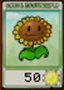
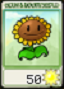
add plant panel for choosing plants

diff --git a/source/component/menubar.py b/source/component/menubar.py
@@ -4,6 +4,12 @@ import pygame as pg
 from .. import tool
 from .. import constants as c
 
+PANEL_Y_START = 87
+PANEL_X_START = 22
+PANEL_Y_INTERNAL = 74
+PANEL_X_INTERNAL = 53
+CARD_LIST_NUM = 8
+
 card_name_list = [c.CARD_SUNFLOWER, c.CARD_PEASHOOTER, c.CARD_SNOWPEASHOOTER, c.CARD_WALLNUT,
                   c.CARD_CHERRYBOMB, c.CARD_THREEPEASHOOTER, c.CARD_REPEATERPEA, c.CARD_CHOMPER,
                   c.CARD_PUFFMUSHROOM, c.CARD_POTATOMINE, c.CARD_SQUASH]
@@ -12,11 +18,26 @@ plant_name_list = [c.SUNFLOWER, c.PEASHOOTER, c.SNOWPEASHOOTER, c.WALLNUT,
                    c.PUFFMUSHROOM, c.POTATOMINE, c.SQUASH]
 plant_sun_list = [50, 100, 175, 50, 150, 325, 200, 150, 0, 25, 50]
 plant_frozen_time_list = [0, 5000, 5000, 10000, 5000, 5000, 5000, 5000, 8000, 8000, 8000]
-card_list = [0, 1, 3, 4, 7, 8, 9, 10]
+all_card_list = [0, 1, 2, 3, 4, 5, 6, 7, 8, 9, 10]
+
+def getSunValueImage(sun_value):
+    font = pg.font.SysFont(None, 22)
+    width = 32
+    msg_image = font.render(str(sun_value), True, c.NAVYBLUE, c.LIGHTYELLOW)
+    msg_rect = msg_image.get_rect()
+    msg_w = msg_rect.width
+
+    image = pg.Surface([width, 17])
+    x = width - msg_w
+
+    image.fill(c.LIGHTYELLOW)
+    image.blit(msg_image, (x, 0), (0, 0, msg_rect.w, msg_rect.h))
+    image.set_colorkey(c.BLACK)
+    return image
 
 class Card():
-    def __init__(self, x, y, name_index):
-        self.loadFrame(card_name_list[name_index])
+    def __init__(self, x, y, name_index, scale=0.78):
+        self.loadFrame(card_name_list[name_index], scale)
         self.rect = self.image.get_rect()
         self.rect.x = x
         self.rect.y = y
@@ -25,13 +46,14 @@ class Card():
         self.sun_cost = plant_sun_list[name_index]
         self.frozen_time = plant_frozen_time_list[name_index]
         self.frozen_timer = -self.frozen_time
+        self.select = True
 
-    def loadFrame(self, name):
+    def loadFrame(self, name, scale):
         frame = tool.GFX[name]
         rect = frame.get_rect()
         width, height = rect.w, rect.h
 
-        self.image = tool.get_image(frame, 0, 0, width, height, c.BLACK, 0.78)
+        self.image = tool.get_image(frame, 0, 0, width, height, c.BLACK, scale)
     
     def checkMouseClick(self, mouse_pos):
         x, y = mouse_pos
@@ -44,6 +66,16 @@ class Card():
         if self.sun_cost <= sun_value and (current_time - self.frozen_timer) > self.frozen_time:
             return True
         return False
+
+    def canSelect(self):
+        return self.select
+
+    def setSelect(self, can_select):
+        self.select = can_select
+        if can_select:
+            self.image.set_alpha(255)
+        else:
+            self.image.set_alpha(128)
 
     def setFrozenTime(self, current_time):
         self.frozen_timer = current_time
@@ -68,7 +100,6 @@ class MenuBar():
         self.sun_value = sun_value
         self.card_offset_x = 32
         self.setupCards(card_list)
-        self.font = pg.font.SysFont(None, 20)
 
     def loadFrame(self, name):
         frame = tool.GFX[name]
@@ -135,21 +166,9 @@ class MenuBar():
                 break
 
     def drawSunValue(self):
-        width = 32
-        msg_image = self.font.render(str(self.sun_value), True, c.NAVYBLUE, c.LIGHTYELLOW)
-        msg_rect = msg_image.get_rect()
-        msg_w = msg_rect.width
-        
-        image = pg.Surface([width, 17])
-        x = width - msg_w
-        
-        image.fill(c.LIGHTYELLOW)
-        image.blit(msg_image, (x, 0), (0, 0, msg_rect.w, msg_rect.h))
-        image.set_colorkey(c.BLACK)
-
-        self.value_image = image
+        self.value_image = getSunValueImage(self.sun_value)
         self.value_rect = self.value_image.get_rect()
-        self.value_rect.x = 18
+        self.value_rect.x = 21
         self.value_rect.y = self.rect.bottom - 21
         
         self.image.blit(self.value_image, self.value_rect)
@@ -159,3 +178,110 @@ class MenuBar():
         surface.blit(self.image, self.rect)
         for card in self.card_list:
             card.draw(surface)
+
+class Panel():
+    def __init__(self, card_list, sun_value):
+        self.loadImages(sun_value)
+        self.selected_cards = []
+        self.selected_num = 0
+        self.setupCards(card_list)
+
+    def loadFrame(self, name):
+        frame = tool.GFX[name]
+        rect = frame.get_rect()
+        frame_rect = (rect.x, rect.y, rect.w, rect.h)
+
+        return tool.get_image(tool.GFX[name], *frame_rect, c.WHITE, 1)
+
+    def loadImages(self, sun_value):
+        self.menu_image = self.loadFrame(c.MENUBAR_BACKGROUND)
+        self.menu_rect = self.menu_image.get_rect()
+        self.menu_rect.x = 0
+        self.menu_rect.y = 0
+
+        self.panel_image = self.loadFrame(c.PANEL_BACKGROUND)
+        self.panel_rect = self.panel_image.get_rect()
+        self.panel_rect.x = 0
+        self.panel_rect.y = PANEL_Y_START
+
+        
+        self.value_image = getSunValueImage(sun_value)
+        self.value_rect = self.value_image.get_rect()
+        self.value_rect.x = 21
+        self.value_rect.y = self.menu_rect.bottom - 21
+
+        self.button_image =  self.loadFrame(c.START_BUTTON)
+        self.button_rect = self.button_image.get_rect()
+        self.button_rect.x = 155
+        self.button_rect.y = 547
+
+    def setupCards(self, card_list):
+        self.card_list = []
+        x = PANEL_X_START - PANEL_X_INTERNAL
+        y = PANEL_Y_START + 43 - PANEL_Y_INTERNAL
+        for i, index in enumerate(card_list):
+            if i % 8 == 0:
+                x = PANEL_X_START - PANEL_X_INTERNAL
+                y += PANEL_Y_INTERNAL
+            x += PANEL_X_INTERNAL
+            self.card_list.append(Card(x, y, index, 0.75))
+
+    def checkCardClick(self, mouse_pos):
+        delete_card = None
+        for card in self.selected_cards:
+            if delete_card: # when delete a card, move right cards to left
+                card.rect.x -= 55
+            elif card.checkMouseClick(mouse_pos):
+                self.deleteCard(card.name_index)
+                delete_card = card
+
+        if delete_card:
+            self.selected_cards.remove(delete_card)
+            self.selected_num -= 1
+
+        if self.selected_num == CARD_LIST_NUM:
+            return
+
+        for card in self.card_list:
+            if card.checkMouseClick(mouse_pos):
+                if card.canSelect():
+                    self.addCard(card)
+                break
+
+    def addCard(self, card):
+        card.setSelect(False)
+        y = 8
+        x = 78 + self.selected_num * 55
+        self.selected_cards.append(Card(x, y, card.name_index))
+        self.selected_num += 1
+
+    def deleteCard(self, index):
+        self.card_list[index].setSelect(True)
+
+    def checkStartButtonClick(self, mouse_pos):
+        if self.selected_num < CARD_LIST_NUM:
+            return False
+
+        x, y = mouse_pos
+        if (x >= self.button_rect.x and x <= self.button_rect.right and
+            y >= self.button_rect.y and y <= self.button_rect.bottom):
+           return True
+        return False
+
+    def getSelectedCards(self):
+        card_index_list = []
+        for card in self.selected_cards:
+            card_index_list.append(card.name_index)
+        return card_index_list
+
+    def draw(self, surface):
+        self.menu_image.blit(self.value_image, self.value_rect)
+        surface.blit(self.menu_image, self.menu_rect)
+        surface.blit(self.panel_image, self.panel_rect)
+        for card in self.card_list:
+            card.draw(surface)
+        for card in self.selected_cards:
+            card.draw(surface)
+
+        if self.selected_num == CARD_LIST_NUM:
+            surface.blit(self.button_image, self.button_rect)

diff --git a/source/state/level.py b/source/state/level.py
@@ -19,21 +19,10 @@ class Level(tool.State):
         self.map = map.Map(c.GRID_X_LEN, self.map_y_len)
         
         self.loadMap()
-        
-        self.menubar = menubar.MenuBar(menubar.card_list, self.map_data[c.INIT_SUN_NAME])
-        self.drag_plant = False
-        self.hint_image = None
-        self.hint_plant = False
-        
-        self.produce_sun = True
-        self.sun_timer = current_time
-        
-        self.removeMouseImage()
+        self.state = c.CHOOSE
+        self.initChoose()
         self.setupBackground()
-        self.setupGroups()
-        self.setupZombies()
-        self.setupCars()
-    
+
     def loadMap(self):
         map_file = 'level_' + str(self.game_info[c.LEVEL_NUM]) + '.json'
         file_path = os.path.join('source', 'data', 'map', map_file)
@@ -80,7 +69,37 @@ class Level(tool.State):
 
     def update(self, surface, current_time, mouse_pos, mouse_click):
         self.current_time = self.game_info[c.CURRENT_TIME] = current_time
-        
+        if self.state == c.CHOOSE:
+            self.choose(mouse_pos, mouse_click)
+        elif self.state == c.PLAY:
+            self.play(mouse_pos, mouse_click)
+
+        self.draw(surface)
+
+    def initChoose(self):
+        self.panel = menubar.Panel(menubar.all_card_list, self.map_data[c.INIT_SUN_NAME])
+
+    def choose(self, mouse_pos, mouse_click):
+        if mouse_pos and mouse_click[0]:
+            self.panel.checkCardClick(mouse_pos)
+            if self.panel.checkStartButtonClick(mouse_pos):
+                self.state = c.PLAY
+                self.initPlay(self.panel.getSelectedCards())
+
+    def initPlay(self, card_list):
+        self.menubar = menubar.MenuBar(card_list, self.map_data[c.INIT_SUN_NAME])
+        self.drag_plant = False
+        self.hint_image = None
+        self.hint_plant = False
+        self.produce_sun = True
+        self.sun_timer = self.current_time
+
+        self.removeMouseImage()
+        self.setupGroups()
+        self.setupZombies()
+        self.setupCars()
+
+    def play(self, mouse_pos, mouse_click):
         if self.zombie_start_time == 0:
             self.zombie_start_time = self.current_time
         elif len(self.zombie_list) > 0:
@@ -132,8 +151,7 @@ class Level(tool.State):
         self.checkPlants()
         self.checkCarCollisions()
         self.checkGameState()
-        self.draw(surface)
-    
+
     def createZombie(self, name, map_y):
         x, y = self.map.getMapGridPos(0, map_y)
         if name == c.NORMAL_ZOMBIE:
@@ -370,15 +388,18 @@ class Level(tool.State):
     def draw(self, surface):
         self.level.blit(self.background, self.viewport, self.viewport)
         surface.blit(self.level, (0,0), self.viewport)
-        self.menubar.draw(surface)
-        for i in range(self.map_y_len):
-            self.plant_groups[i].draw(surface)
-            self.zombie_groups[i].draw(surface)
-            self.bullet_groups[i].draw(surface)
-        for car in self.cars:
-            car.draw(surface)
-        self.head_group.draw(surface)
-        self.sun_group.draw(surface)
+        if self.state == c.CHOOSE:
+            self.panel.draw(surface)
+        elif self.state == c.PLAY:
+            self.menubar.draw(surface)
+            for i in range(self.map_y_len):
+                self.plant_groups[i].draw(surface)
+                self.zombie_groups[i].draw(surface)
+                self.bullet_groups[i].draw(surface)
+            for car in self.cars:
+                car.draw(surface)
+            self.head_group.draw(surface)
+            self.sun_group.draw(surface)
 
-        if self.drag_plant:
-            self.drawMouseShow(surface)
+            if self.drag_plant:
+                self.drawMouseShow(surface)

diff --git a/source/constants.py b/source/constants.py
@@ -57,6 +57,8 @@ MAP_OFFSET_Y = 100
 
 #MENUBAR
 MENUBAR_BACKGROUND = 'ChooserBackground'
+PANEL_BACKGROUND = 'PanelBackground'
+START_BUTTON = 'StartButton'
 
 #PLANT INFO
 PLANT_IMAGE_RECT = 'plant_image_rect'
@@ -140,3 +142,6 @@ DIGEST = 'digest'
 WALK = 'walk'
 DIE = 'die'
 
+#LEVEL STATE
+CHOOSE = 'choose'
+PLAY = 'play'
